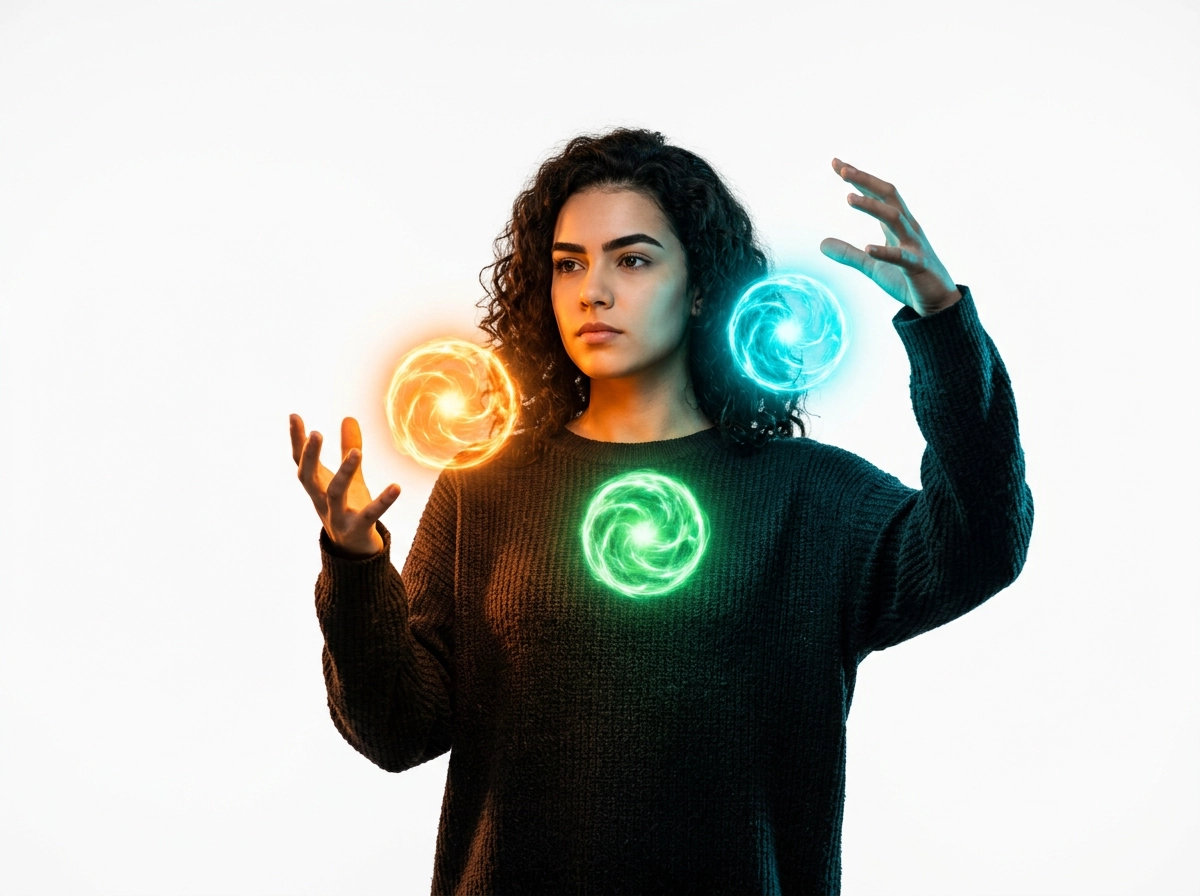
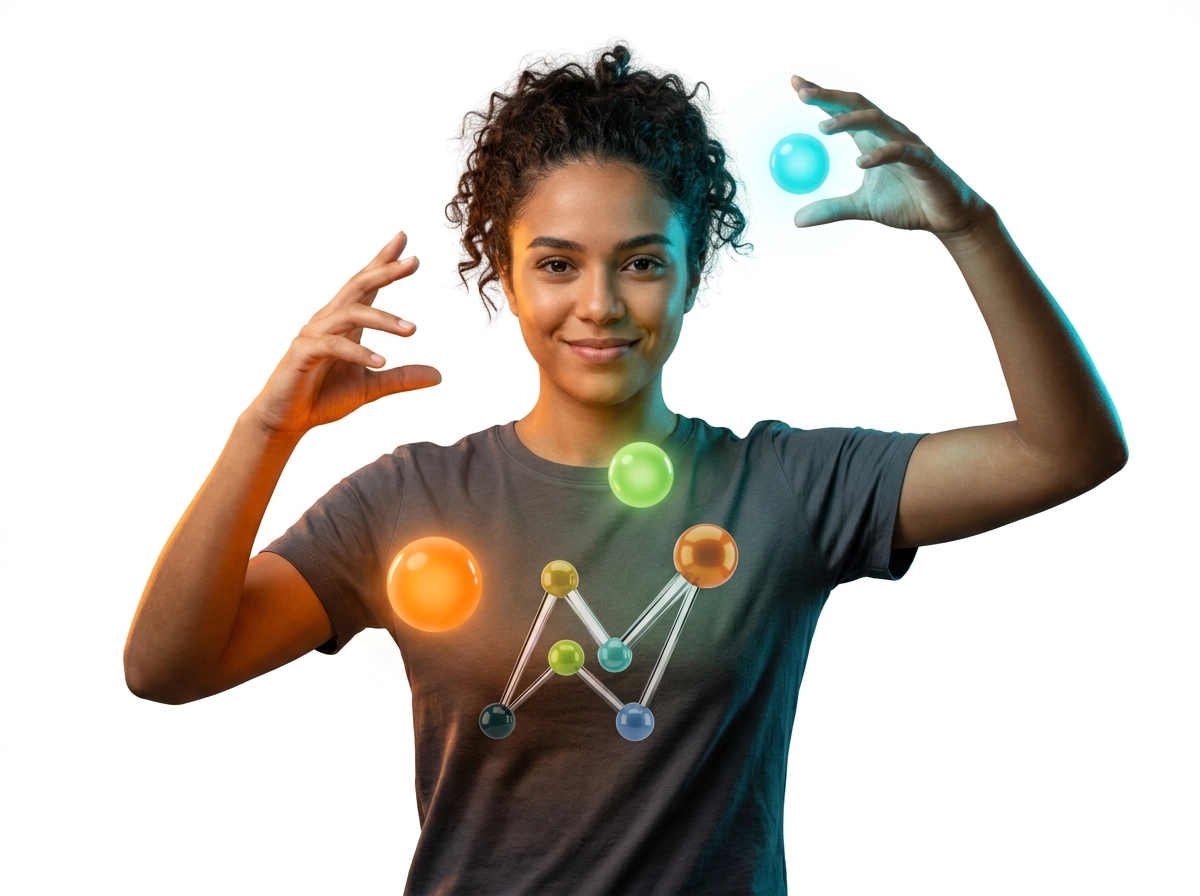
Fase 5 parcial: fotos integradas + scrim de contraste + páginas de demo

diff --git a/css/style.css b/css/style.css
@@ -181,6 +181,41 @@ body[data-tema="escuro"] { background: var(--cor-deep-dark); }
           mask-image: linear-gradient(to bottom, transparent 0%, black 12%, black 88%, transparent 100%);
 }
 
+/* SCRIM — correção de contraste sobre foto real (D3, D4, D5, D6; D1/D2 não
+   precisam: D1 tem CTAs com fundo opaco e eyebrow curto, D2 não tem texto).
+   Um IRMÃO de .dobra__media e .dobra__conteudo — não um filho de nenhum dos
+   dois. Usa o MESMO mecanismo de z-index:-1 que já garante que .dobra__media
+   fica atrás de .dobra__conteudo (elemento não-posicionado sempre pinta
+   acima de z-index negativo, independente da ordem no DOM); entre dois
+   elementos com z-index:-1, quem vem depois no DOM pinta por cima — por
+   isso o scrim entra DEPOIS de .dobra__media no HTML. Ficar fora de
+   .dobra__media é deliberado: quando a Fase 2 mover a foto via parallax, o
+   scrim tem que continuar parado, alinhado ao texto (que também não se
+   move) — não pode viajar junto com a imagem.
+   Cobre uma faixa vertical generosa (12%–76%, com rampa até 92%) calibrada
+   pela posição real do bloco de texto nas 4 dobras — inclui a D6, que é
+   ancorada mais ao topo (decisão 7) e por isso a única que precisa da
+   correção começar tão cedo. Fora dessa faixa a foto fica limpa: não é um
+   véu por cima da imagem inteira. */
+.dobra__scrim {
+  position: absolute;
+  inset: 0;
+  z-index: -1;
+  pointer-events: none;
+  background: linear-gradient(to bottom,
+    transparent 0%,
+    color-mix(in srgb, var(--cor-branco-luminoso) 80%, transparent) 12%,
+    color-mix(in srgb, var(--cor-branco-luminoso) 80%, transparent) 76%,
+    transparent 92%);
+}
+[data-tema="escuro"] .dobra__scrim {
+  background: linear-gradient(to bottom,
+    transparent 0%,
+    color-mix(in srgb, var(--cor-deep-dark) 82%, transparent) 12%,
+    color-mix(in srgb, var(--cor-deep-dark) 82%, transparent) 76%,
+    transparent 92%);
+}
+
 .dobra__conteudo {
   max-width: var(--largura-conteudo);
   margin-inline: auto;
@@ -347,8 +382,14 @@ body[data-tema="escuro"] { background: var(--cor-deep-dark); }
 .link-hub--voltar:hover::before { transform: translateX(-4px); }
 
 /* ==========================================================================
-   PLACEHOLDERS (Fases 1–4) — substituídos pelas fotos na Fase 5
-   Cada um ecoa a "practical light" da futura foto daquela dobra.
+   FOTOS DAS DOBRAS (Fase 5 parcial — Home) + placeholders remanescentes
+   D1, D2, D3, D5, D6 e o par D4A/D4B já usam a foto real. Os wrappers
+   .placeholder--d6/d4a/d4b sobrevivem porque ainda carregam regras de
+   layout de verdade (composição travada da D6, clip-path do Juxtapose) —
+   os demais (d1/d2/d3/d5), que só existiam para pintar o gradiente de cor,
+   foram removidos do HTML junto com o gradiente que substituíam.
+   As internas (Jovem, Empresário, Gestor Público) continuam sem foto: são
+   páginas da Fase 4, ainda não construídas.
    ========================================================================== */
 .placeholder {
   position: absolute;
@@ -357,49 +398,41 @@ body[data-tema="escuro"] { background: var(--cor-deep-dark); }
   place-items: center;
 }
 
-.placeholder--d1 {
-  background: radial-gradient(60% 70% at 70% 40%,
-    color-mix(in srgb, var(--cor-ciano) 16%, transparent),
-    transparent 70%);
+/* A foto real de cada dobra. Mais alta que o container (130%) e centralizada
+   por transform: a folga vertical é o overscan que a Fase 2 vai usar para
+   mover a imagem dentro do container (overflow:hidden em .dobra) sem nunca
+   revelar borda — decisão 5 do CLAUDE.md. object-fit:cover faz o corte;
+   a margem de segurança que garante que esse corte nunca alcança o sujeito
+   já vem da própria composição da foto (ver PROMPTS_FREEPIK.md, regras 1 e 2). */
+.dobra__foto {
+  position: absolute;
+  top: 50%;
+  left: 50%;
+  width: 100%;
+  height: 130%;
+  transform: translate(-50%, -50%);
+  object-fit: cover;
 }
-.placeholder--d2 {
-  background: radial-gradient(45% 55% at 50% 50%,
-    color-mix(in srgb, var(--cor-ciano) 22%, transparent),
-    color-mix(in srgb, var(--cor-azul-escuro) 10%, transparent) 75%);
-}
-.placeholder--d3 {
-  background: radial-gradient(55% 65% at 50% 45%,
-    color-mix(in srgb, var(--cor-mostarda) 15%, transparent),
-    transparent 72%);
-}
-.placeholder--d5 {
-  background: radial-gradient(60% 70% at 50% 55%,
-    color-mix(in srgb, var(--cor-azul-escuro) 65%, transparent),
-    transparent 78%);
-}
+
 .placeholder--d6 {
   /* Composição travada (CLAUDE.md §2, decisão 7): o orbe vive na faixa
      inferior, nunca no centro — é lá que o texto de fechamento mora agora.
      `align-items: end` sobrescreve o `place-items: center` de `.placeholder`
      só no eixo vertical; o padding-bottom dá a folga final antes da borda
-     (que a máscara em gradiente da .dobra__media já dissolve). */
+     (que a máscara em gradiente da .dobra__media já dissolve). A foto
+     (.dobra__foto) é absolutamente posicionada e ignora esse align-items;
+     só o núcleo (position:static) responde a ele — é assim que os dois
+     continuam coexistindo na mesma caixa sem disputar o mesmo lugar. */
   align-items: end;
   padding-bottom: clamp(2.5rem, 9vh, 6rem);
-  background: radial-gradient(55% 45% at 50% 78%,
-    color-mix(in srgb, var(--cor-laranja) 18%, transparent),
-    transparent 75%);
 }
 
-/* Par Juxtapose (D4): empilhados; o clip-path entra na Fase 3 */
+/* Par Juxtapose (D4): empilhados; o arrastar via scroll entra na Fase 3.
+   A divisória de hoje é só o clip-path estático abaixo — não mexer nisso
+   ainda. Ele recorta o wrapper inteiro, foto incluída. */
 .placeholder--d4a,
 .placeholder--d4b { position: absolute; inset: 0; }
-.placeholder--d4a {
-  background: linear-gradient(160deg, var(--cinza-juxtapose-alto), var(--cinza-juxtapose-baixo));
-}
 .placeholder--d4b {
-  background: linear-gradient(160deg,
-    color-mix(in srgb, var(--cor-verde) 26%, var(--cinza-juxtapose-baixo)),
-    color-mix(in srgb, var(--cor-mostarda) 18%, var(--cinza-juxtapose-baixo)));
   clip-path: inset(0 0 0 50%);   /* estado inicial estático da barra */
 }
 .placeholder__tag {

diff --git a/index.html b/index.html
@@ -52,12 +52,10 @@
     <!-- ============ DOBRA 1 · HERO — O DESPERTAR ============ -->
     <section class="dobra dobra--hero" id="dobra-1" data-tema="claro">
       <div class="dobra__media" data-parallax>
-        <!-- FASE 5: foto "jovem manipulando núcleos" (WebP, overscan 30%). Placeholder: -->
-        <div class="placeholder placeholder--d1" aria-hidden="true">
-          <span class="placeholder__nucleo placeholder__nucleo--laranja" data-orbita></span>
-          <span class="placeholder__nucleo placeholder__nucleo--ciano" data-orbita></span>
-          <span class="placeholder__nucleo placeholder__nucleo--verde" data-orbita></span>
-        </div>
+        <img class="dobra__foto" src="assets/img/d1-hero.webp" alt="" fetchpriority="high" />
+        <span class="placeholder__nucleo placeholder__nucleo--laranja" data-orbita></span>
+        <span class="placeholder__nucleo placeholder__nucleo--ciano" data-orbita></span>
+        <span class="placeholder__nucleo placeholder__nucleo--verde" data-orbita></span>
       </div>
       <div class="dobra__conteudo">
         <p class="eyebrow">Núcleo 01 — O Despertar</p>
@@ -72,8 +70,7 @@
     <!-- ============ DOBRA 2 · A PORTA DE ENTRADA (imersão pura — sem CTA por decisão de Direção de Arte) ============ -->
     <section class="dobra dobra--imersao" id="dobra-2" data-tema="claro">
       <div class="dobra__media" data-parallax>
-        <!-- FASE 5: close-up extremo do olho com o ecossistema refletido na pupila -->
-        <div class="placeholder placeholder--d2" aria-hidden="true"></div>
+        <img class="dobra__foto" src="assets/img/d2-olho.webp" alt="" loading="lazy" decoding="async" />
       </div>
       <div class="dobra__conteudo dobra__conteudo--minimo">
         <p class="eyebrow eyebrow--sozinho">Núcleo 02 — O Ecossistema</p>
@@ -83,9 +80,9 @@
     <!-- ============ DOBRA 3 · O DIFERENCIAL — VOCÊ É O HUB ============ -->
     <section class="dobra" id="dobra-3" data-tema="claro">
       <div class="dobra__media" data-parallax>
-        <!-- FASE 5: aluno estático ao centro, light trails orbitando -->
-        <div class="placeholder placeholder--d3" aria-hidden="true"></div>
+        <img class="dobra__foto" src="assets/img/d3-hub.webp" alt="" loading="lazy" decoding="async" />
       </div>
+      <div class="dobra__scrim" aria-hidden="true"></div>
       <div class="dobra__conteudo">
         <p class="eyebrow">Núcleo 03 — O Diferencial</p>
         <h2 class="titulo">Você é o Hub.</h2>
@@ -100,10 +97,17 @@
     <!-- ============ DOBRA 4 · PITCH B2B — JUXTAPOSE (pin + scrub na Fase 3) ============ -->
     <section class="dobra dobra--juxtapose" id="dobra-4" data-tema="escuro">
       <div class="dobra__media">
-        <!-- FASE 3/5: par de imagens 4A (Antes) / 4B (Depois) com clip-path controlado pelo scroll -->
-        <div class="placeholder placeholder--d4a" aria-hidden="true"><span class="placeholder__tag">ANTES</span></div>
-        <div class="placeholder placeholder--d4b" aria-hidden="true"><span class="placeholder__tag">DEPOIS</span></div>
+        <!-- FASE 3: o clip-path abaixo ainda é estático 50/50 — o arrastar via scroll é da Fase 3 -->
+        <div class="placeholder placeholder--d4a" aria-hidden="true">
+          <img class="dobra__foto" src="assets/img/d4a-antes.webp" alt="" loading="lazy" decoding="async" />
+          <span class="placeholder__tag">ANTES</span>
+        </div>
+        <div class="placeholder placeholder--d4b" aria-hidden="true">
+          <img class="dobra__foto" src="assets/img/d4b-depois.webp" alt="" loading="lazy" decoding="async" />
+          <span class="placeholder__tag">DEPOIS</span>
+        </div>
       </div>
+      <div class="dobra__scrim" aria-hidden="true"></div>
       <div class="dobra__conteudo">
         <p class="eyebrow">Núcleo 04 — Empresas</p>
         <h2 class="titulo">Treinar custa.<br />Não treinar custa o dobro.</h2>
@@ -118,9 +122,9 @@
     <!-- ============ DOBRA 5 · PITCH B2G — GESTÃO PÚBLICA ============ -->
     <section class="dobra" id="dobra-5" data-tema="escuro">
       <div class="dobra__media" data-parallax>
-        <!-- FASE 5: aperto de mãos cinematográfico, cidade próspera em bokeh -->
-        <div class="placeholder placeholder--d5" aria-hidden="true"></div>
+        <img class="dobra__foto" src="assets/img/d5-legado.webp" alt="" loading="lazy" decoding="async" />
       </div>
+      <div class="dobra__scrim" aria-hidden="true"></div>
       <div class="dobra__conteudo">
         <p class="eyebrow">Núcleo 05 — Gestão Pública</p>
         <h2 class="titulo">Invista na qualificação.</h2>
@@ -135,11 +139,12 @@
     <!-- ============ DOBRA 6 · FECHAMENTO — A 4ª PAREDE ============ -->
     <section class="dobra dobra--final" id="dobra-6" data-tema="escuro">
       <div class="dobra__media" data-parallax>
-        <!-- FASE 5: o mesmo jovem da D1, agora mentor, estendendo a mão com o núcleo laranja -->
         <div class="placeholder placeholder--d6" aria-hidden="true">
+          <img class="dobra__foto" src="assets/img/d6-mentor.webp" alt="" loading="lazy" decoding="async" />
           <span class="placeholder__nucleo placeholder__nucleo--laranja placeholder__nucleo--grande"></span>
         </div>
       </div>
+      <div class="dobra__scrim" aria-hidden="true"></div>
       <div class="dobra__conteudo dobra__conteudo--central dobra__conteudo--superior">
         <p class="eyebrow">Núcleo 06 — A Sua Vez</p>
         <h2 class="titulo titulo--hero">Chegou a sua vez<br />de estar no centro.</h2>
